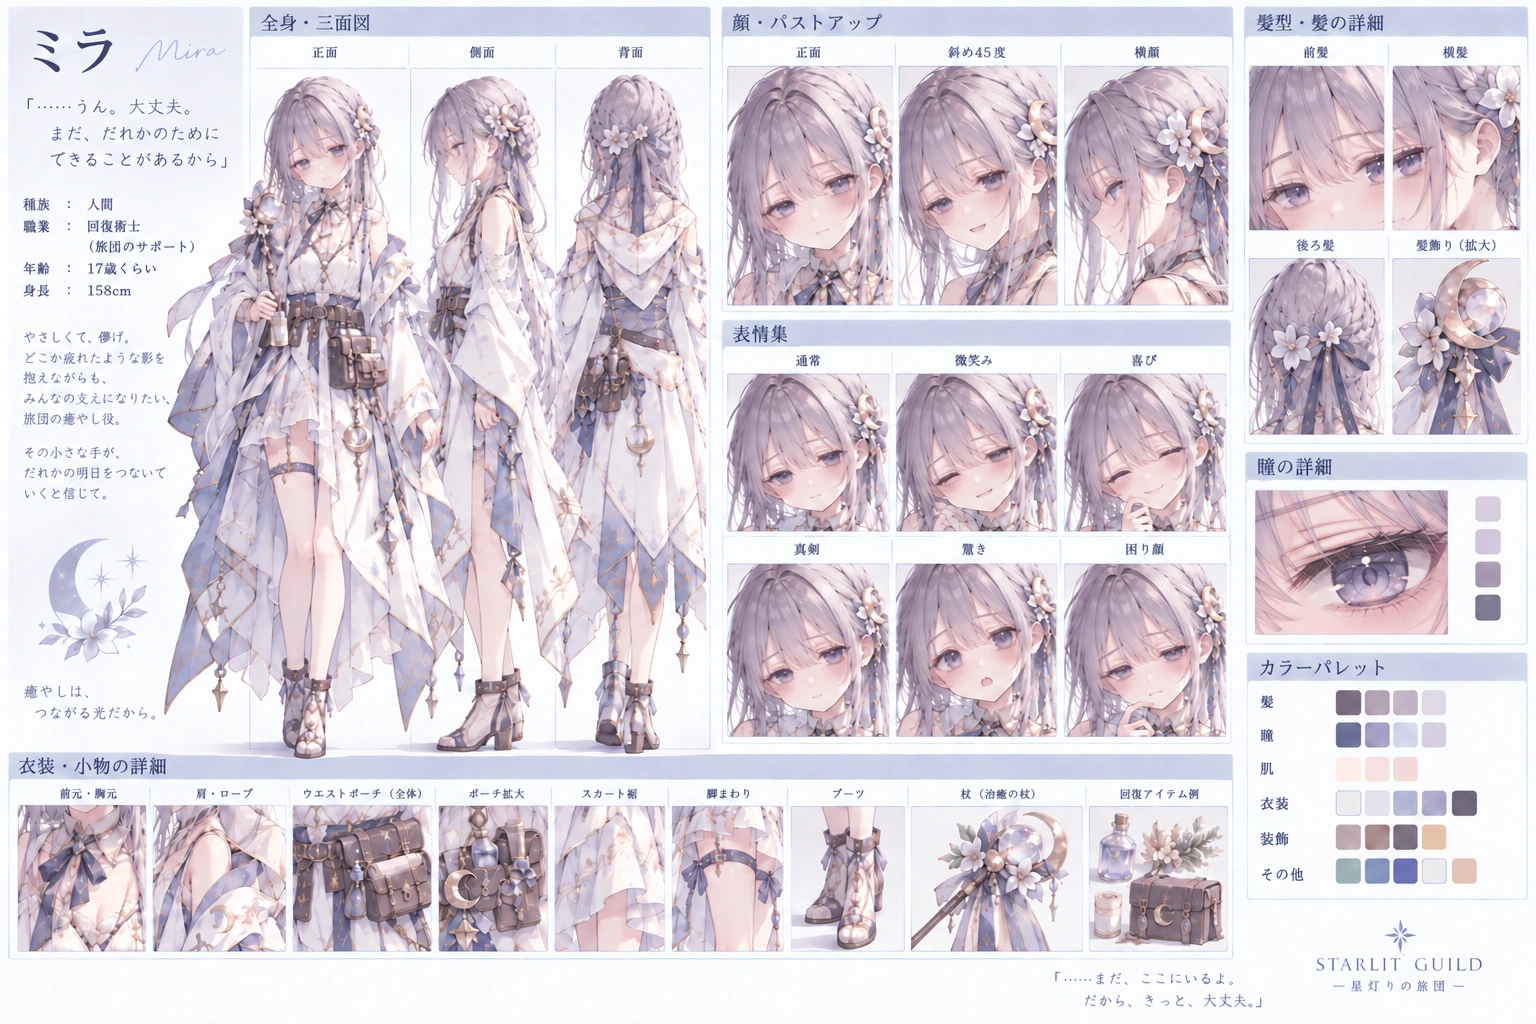
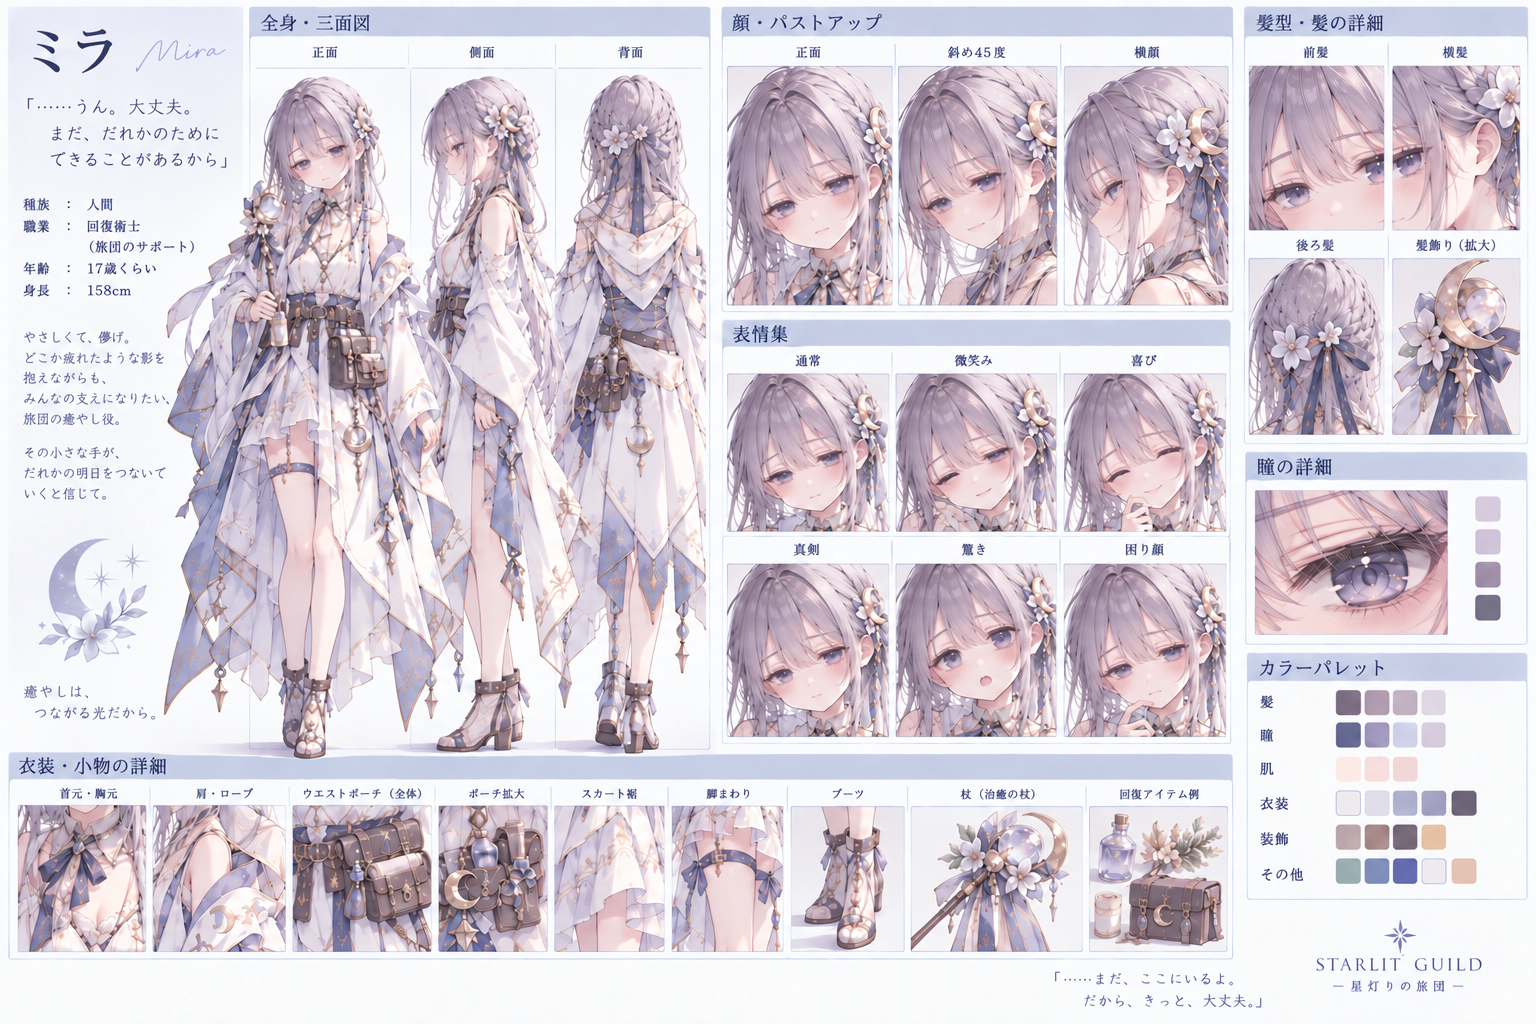
feat: align Mira portraits with weary reference design

diff --git a/docs/dialogue-expressions.md b/docs/dialogue-expressions.md
@@ -1,6 +1,6 @@
 # リファレンスシートに合わせた会話の表情
 
-2026-09-15。内蔵画像生成ツールでアリア、レオン、ミラ、プティの顔アイコンを作り直した。GPT Image 2.5 必須という当初の条件はユーザーが取り消し、APIキー不要の内蔵ツールへ変更した。内蔵ツールのモデル名は取得できないため、特定のモデルで生成したとは記録しない。
+アリア、レオン、ミラ、プティの顔アイコンは、リファレンスシートに合わせた8表情を使う。制作には内蔵画像生成ツールを使用する。モデル名は取得できないため、特定のモデルで生成したとは記録しない。
 
 ## 採用画像と表示
 
@@ -11,7 +11,7 @@
 | ミラ | [シート](characters/mira-reference-sheet.webp) | [表情一覧](../public/portraits/mira-expressions.webp) |
 | プティ | [シート](characters/pumpety-reference-sheet.webp) | [表情一覧](../public/portraits/pumpety-expressions.webp) |
 
-各画像は1024×512px、4列×2行、1コマ256px角のWebP。上段は通常 `neutral`、笑顔 `smile`、驚き `surprised`、困り `worried`。下段は真剣 `serious`、照れ `shy`、疲れ `tired`、ニヤリ `mischievous`。元画像1774×887pxから全体を縮小し、品質90で書き出した。顔がコマの大部分を占めるアップ構図で再生成した。頭頂部・髪・飾りの端はコマから切れてよく、目・鼻・頬・口を大きく描く。表示時はコマ全体を使い、追加のズームや切り取りは行わない。背景は不透明なアイボリー。人物ごとの髪・耳・髪飾りと、表情差分の顔の位置を確認し、64px角の比較でも目と口の違いを確認した。
+各画像は1024×512px、4列×2行、1コマ256px角のWebP。上段は通常 `neutral`、笑顔 `smile`、驚き `surprised`、困り `worried`。下段は真剣 `serious`、照れ `shy`、疲れ `tired`、ニヤリ `mischievous`。書き出しはミラが可逆圧縮、他の3人が品質90。ミラは通常顔にも重い上まぶたと灰紫の目の下の影を持ち、疲れ顔でそれを強める。笑顔・驚き・真剣さは別々に描き分ける。顔がコマの大部分を占めるアップ構図。頭頂部・髪・飾りの端はコマから切れてよく、目・鼻・頬・口を大きく描く。表示時はコマ全体を使い、追加のズームや切り取りは行わない。背景は不透明なアイボリー。人物ごとの髪・耳・髪飾りと、表情差分の顔の位置を確認し、64px角の比較でも目と口の違いを確認した。
 
 `StoryLine.expression` へ台詞ごとに指定する。句読点や単語から実行時に感情を推測しない。同じ文章でも場面によって違う表情を指定できる。省略時は通常顔で、地の文には顔を出さない。会話画面、思い出の読み返し、道中のチャット履歴は各発言の表情を保持する。キャラクター画面では通常顔を使い、対象外の人物には従来の顔画像を使う。
 

diff --git a/docs/characters/mira.md b/docs/characters/mira.md
@@ -76,9 +76,9 @@
 
 GPT Imageで作成した外見・衣装の制作参考。薄紫の髪、儚げで疲労をにじませながら頑張る表情、治癒師らしい軽いローブ、治療用の薬や道具を収めるウエストポーチ、月のモチーフを主な方向性として扱う。
 
-第二章2-8の[服薬の一枚絵](../../public/stories/medicine-delivered.png)で採用した疲れ顔を、シートの表情にも反映した。重い上まぶた、目の下の柔らかな灰紫の影、血色の薄さを土台にし、疲れていても患者に向ける優しい目と微笑みを残す。普段にも疲れがにじむが、寝不足の強い場面では目元の影とまぶたの重さを強める。喜び・驚き・真剣さは描き分け、どの表情も眠そうな同じ顔にはしない。肩の見えるローブ、髪飾り、薬のポーチなどの衣装設定は維持する。
+重い上まぶた、目の下の柔らかな灰紫の影、血色の薄さを土台にし、疲れていても患者に向ける優しい目と微笑みを残す。普段にも疲れがにじむが、寝不足の強い場面では目元の影とまぶたの重さを強める。喜び・驚き・真剣さは描き分け、どの表情も眠そうな同じ顔にはしない。肩の見えるローブ、髪飾り、薬のポーチなどの衣装設定は維持する。
 
-この更新は制作参考のシートと外見指針の変更。既存のゲーム内会話アイコンや冒険アニメーションを一括で差し替えたものではない。制作条件は [シート更新記録](mira-reference-sheet-generation.json) を参照。
+会話・キャラクター画面の顔アイコンは、この目元を基準にした [8表情](../../public/portraits/mira-expressions.webp) を使用する。制作条件は [シートの制作条件](mira-reference-sheet-generation.json) と [会話の表情](../dialogue-expressions.md) を参照。
 
 シート内に自動生成された年齢・身長・台詞などの文字情報は、確定設定として扱わない。人物設定の正本は本ファイルと関連資料を優先する。
 
